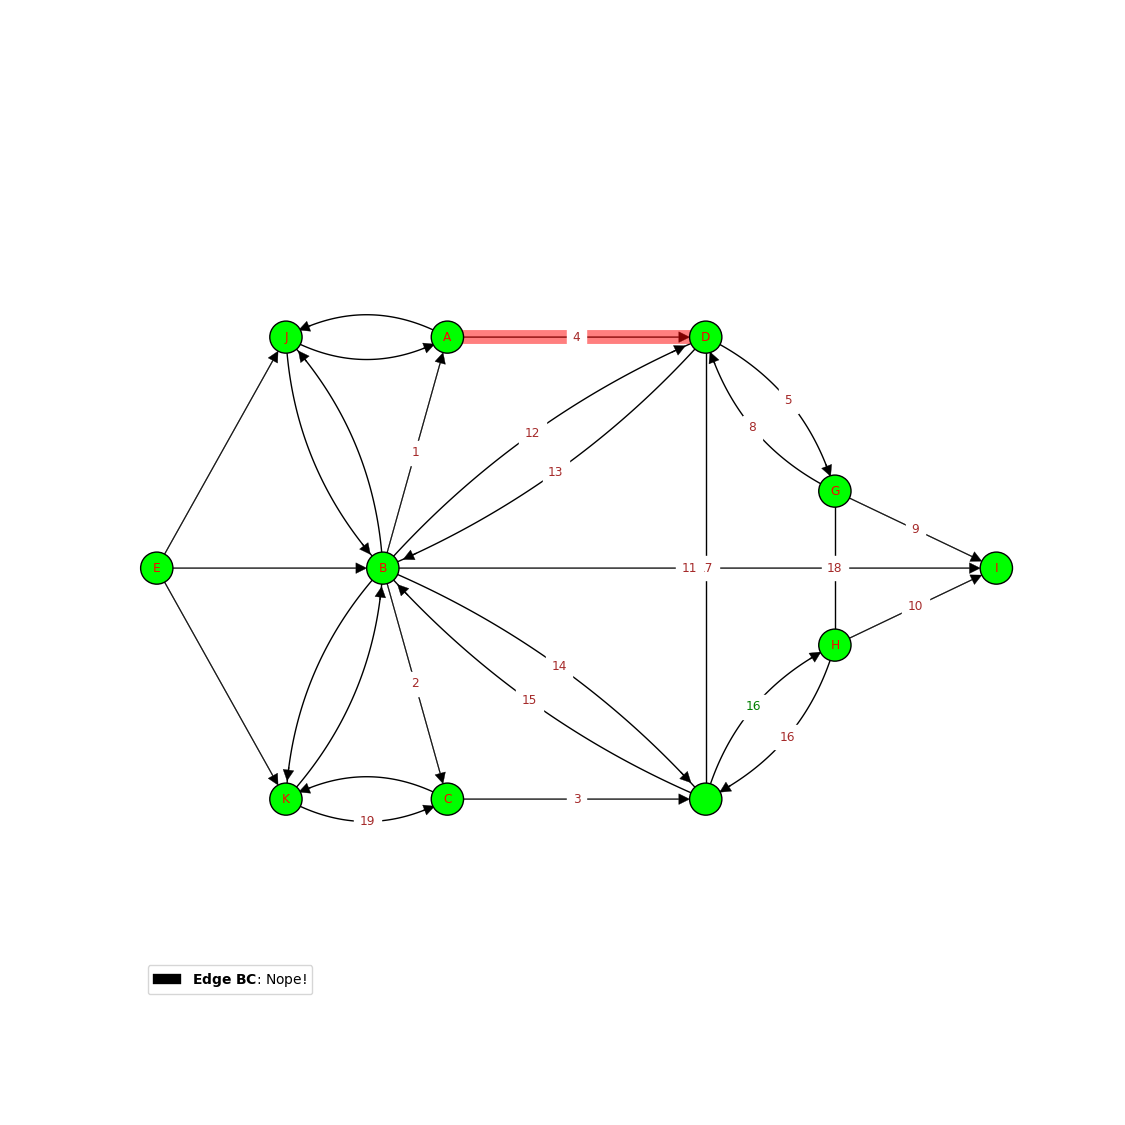
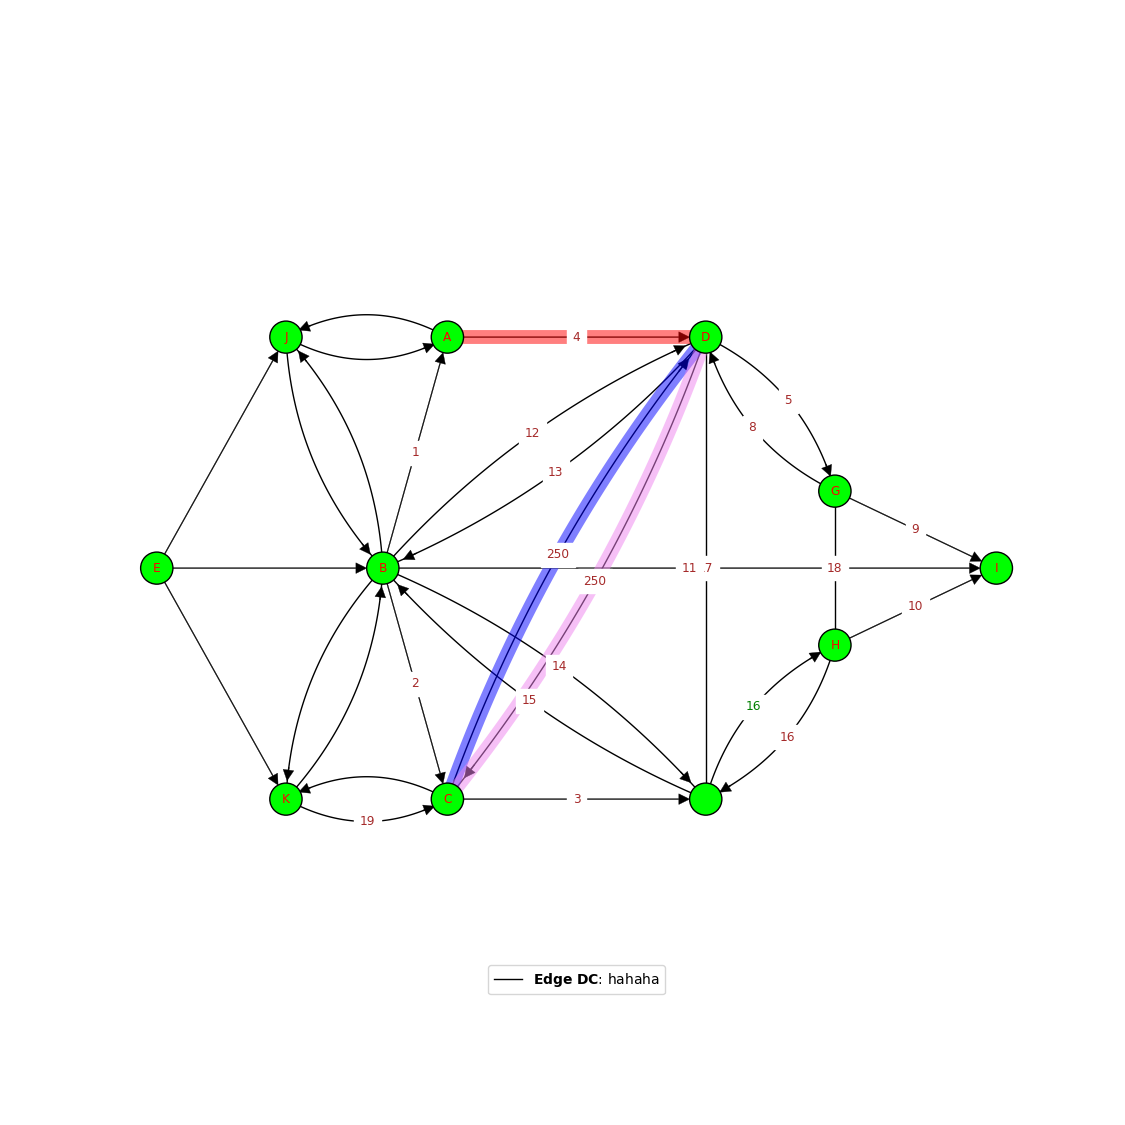
Added functionality to set edge and vertex text colours universally and updated annotations to be more suitably placed

diff --git a/graph.py b/graph.py
@@ -7,7 +7,9 @@ from defvertex import Vertex
 # Defining our graph theory objects
 class Graph():
     def __init__(self, name, ax, arrowsize : float =0.01, res : int =100, vertexcolour : str ="red",edgecolour : str="black",
-                 vertex_textcolour : str = "black", edge_textcolour : str = "black", curved_edge_stretchiness : float = 1.4):
+                 vertex_textcolour : str = "black", edge_textcolour : str = "black", curved_edge_stretchiness : float = 1.4,
+                 aspect_ratio : float = None):
+        
         self.name = name
         
         # V maps the NAME of the vertex to the object vertex
@@ -59,7 +61,24 @@ class Graph():
         
         # We need to keep track of all annotations in the graph
         self.annotations : list = []
+        
+        # Get the aspect ratio of the graph
+        self.aspect_ratio = aspect_ratio
 
+    # Set the text colour of every vertex in the graph to a given colour
+    def set_vertex_textcolour(self, colour : str) -> None:
+        
+        # Do for each vertex, set its colour
+        for vertex in list(self.V.keys()):
+            self.get_vertex(vertex).set_textcolour(colour)
+    
+    # Set the text colour of every weight for every edge in the graph to a given colour
+    def set_edge_textcolour(self, colour : str) -> None:
+        
+        # For each edge set its colour
+        for edge in list(self.E.keys()):
+            self.get_edge(*edge).set_textcolour(colour)
+            
     # Remove all the annotations about the graph
     def clear_annotations(self) -> None:
         

diff --git a/graph_methods.py b/graph_methods.py
@@ -255,8 +255,7 @@ def create_graph(schematic : str, edges : str, weights : list[float] = [], heigh
     ax.set_ylim([0,1])
     
     # Remove the axes
-    if not display:
-        plt.axis("off")
+    if not display: plt.axis("off")
 
     # Compress the input to eliminate redundant whitespaces
     if compress: schematic = compress_string(schematic)
@@ -274,7 +273,8 @@ def create_graph(schematic : str, edges : str, weights : list[float] = [], heigh
     
     # Create the Graph object
     G = Graph("G", ax, vertexcolour=vertexcolour, edgecolour=edgecolour, arrowsize=arrowsize, 
-              vertex_textcolour= vertex_textcolour,edge_textcolour = edge_textcolour)
+              vertex_textcolour= vertex_textcolour,edge_textcolour = edge_textcolour,
+              aspect_ratio = ncols/ (heightratio*nrows))
     
     # Use the information we've gathered to add the vertices to the graph
     add_vertices(G, vertexinfo, nrows,ncols,X,Y)
@@ -325,6 +325,13 @@ G.highlight_edge(("D","A"),"red")
 G.get_edge("F","H").set_textcolour("green")
 G.get_vertex("F").set_textcolour("lime")
 
+G.add_edge("D","C", weight=31)
+G.add_edge("C","D" , weight=298)
+G.add_edge("C","D",both=True, weight=250)
+
+G.get_edge("C","D").highlight("blue")
+G.get_edge("D","C").highlight("violet")
+G.get_edge("D","C").annotate("hahaha")
 
 plt.savefig("test_folder/test3.png", )
 

diff --git a/defedge.py b/defedge.py
@@ -61,7 +61,7 @@ class Edge():
         else: self.ax.legend()
         
     # Determine the quadrant (upper left, lower right, etc...) that the edge belongs to, using its midpoint
-    def quadrant(self) -> str: return point_orientation(*self.midpoint)    
+    def quadrant(self) -> str: return point_orientation(*self.midpoint, self.owner.aspect_ratio)    
     
     # Highlight the edge a colour - this is just a wrapper for the graph method
     def highlight(self, colour : str = None, 
@@ -109,6 +109,8 @@ class Edge():
                                     ha="center",
                                     va="center",
                                     backgroundcolor="white")
+            
+            weight_text.set_bbox(dict(zorder=-111, fc="white",ec="white"))
             
             # Link the plot representation with this weight text
             self.plotrep.update({ "text" : weight_text })    

diff --git a/drawing_functions.py b/drawing_functions.py
@@ -232,17 +232,22 @@ def selfloop_arrow(sourcev, frac_diam : float, ax, edgecolour : str = "black"):
 
 
 # Get the orientation (closest quadrant/corner) of a 2D point in the axes
-def point_orientation(x : float, y : float):
+def point_orientation(x : float, y : float, aspect_ratio : float = 1):
     
-    string = ""
-    if y > 0.5:
-        string += "upper "
-    else:
-        string += "lower "
-        
-    if x > 0.5:
-        string += "right"
-    else:
-        string += "left"
-        
-    return string
+    xlocations = ["left", "right"]
+    ylocations = ["lower" , "upper"]
+    
+    if aspect_ratio > 1:
+        xlocations.insert(1, "center")
+    elif aspect_ratio < 1: 
+        ylocations.insert(1, "center")
+
+    xindex = round( x*len(xlocations)) - 1
+    yindex = round( y*len(ylocations)) - 1
+    
+    
+
+    
+
+    
+    return ylocations[yindex] + " " + xlocations[xindex]

diff --git a/defvertex.py b/defvertex.py
@@ -58,7 +58,7 @@ class Vertex():
         
           
     # Determine the quadrant (upper left, lower right, etc...) that the vertex belongs to
-    def quadrant(self) -> str: return point_orientation(self.x, self.y)
+    def quadrant(self) -> str: return point_orientation(self.x, self.y, self.owner.aspect_ratio)
             
     # Highlight the vertex a colour - this is just a wrapper for the graph method
     def highlight(self, colour : str = None, 
